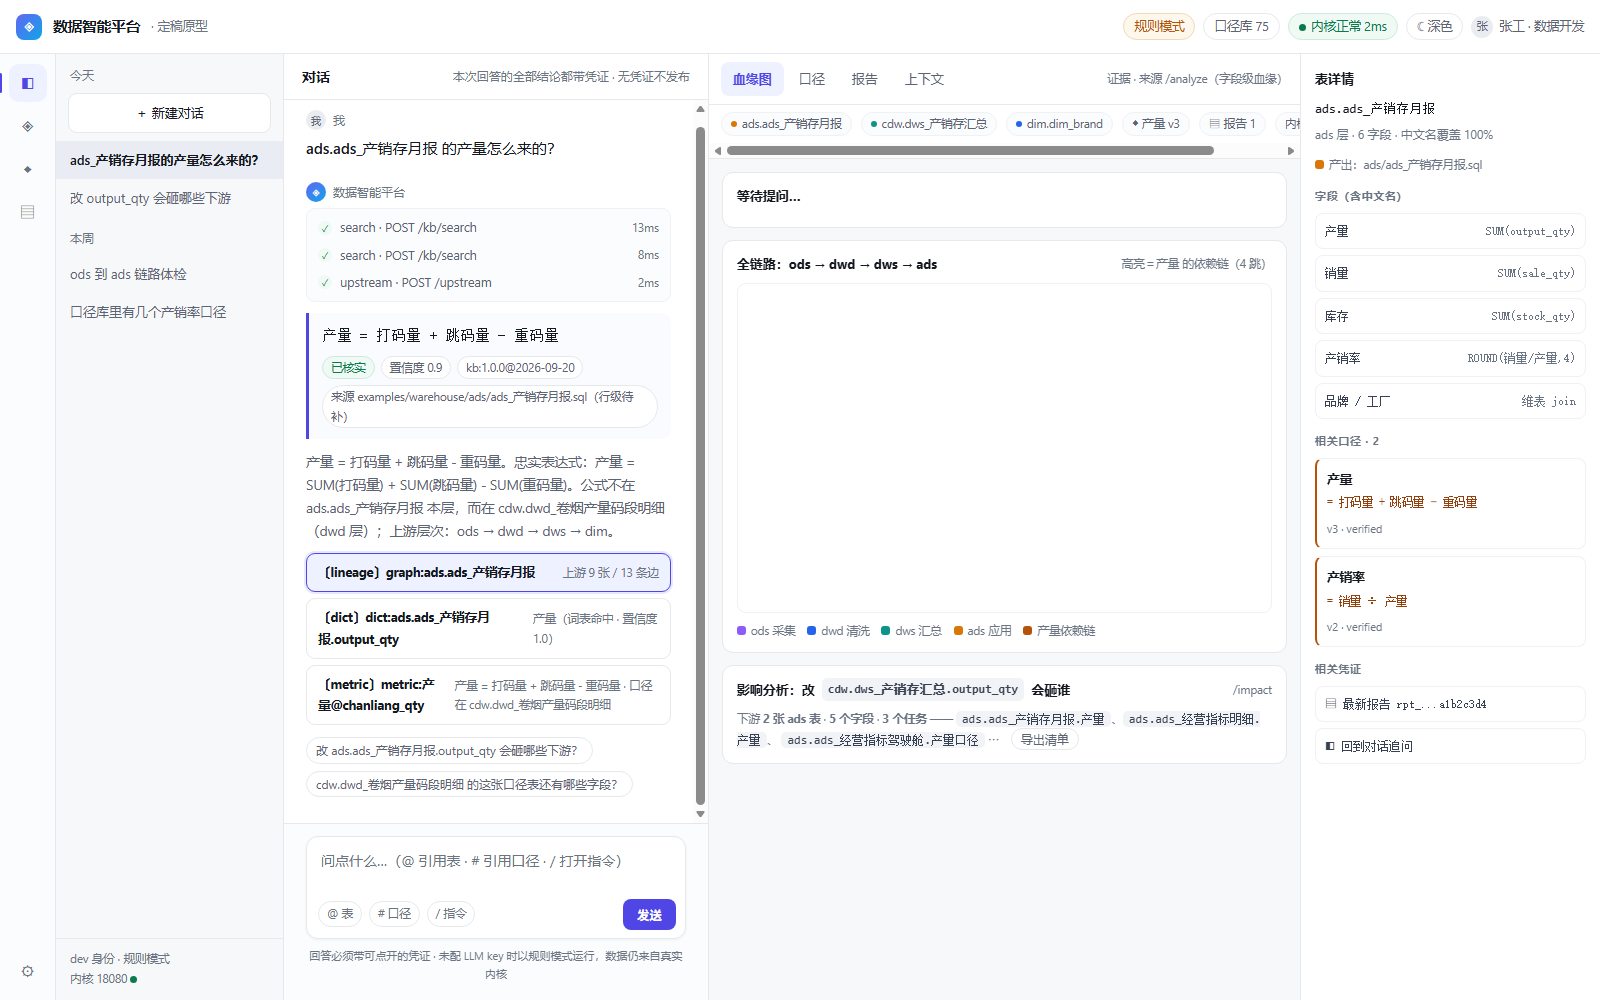
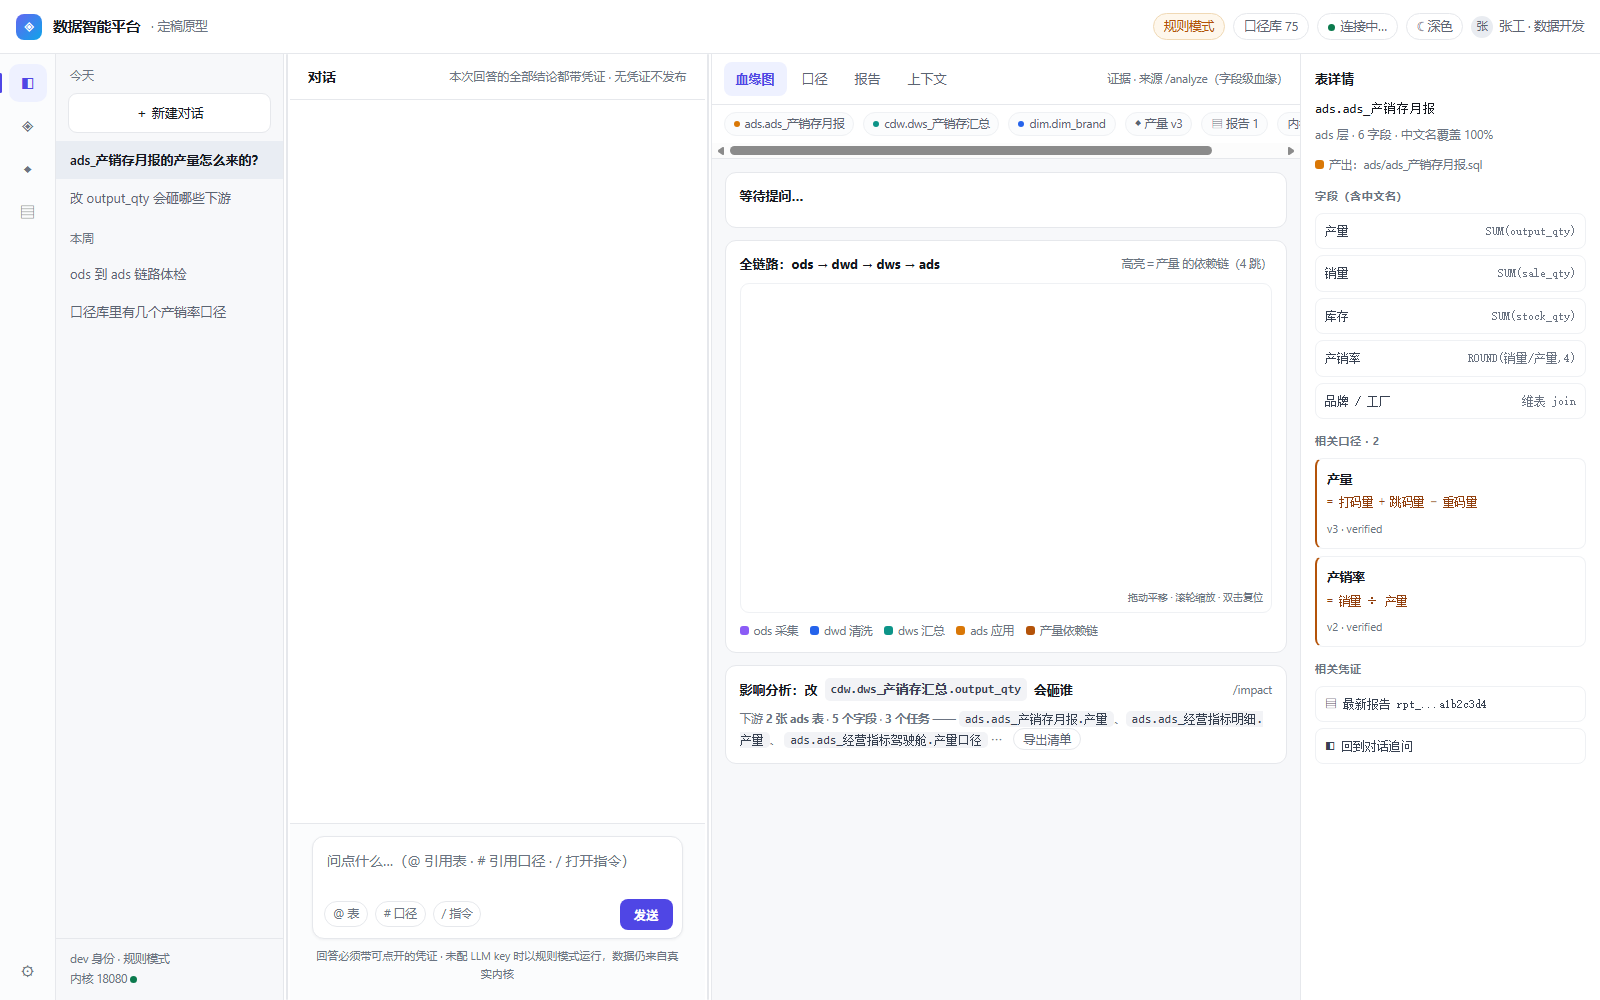
feat(web): B3 可见那一半 —— 会话列表读库 + 审计流水 + 留痕号
- 左侧会话列表改读 GET /api/sessions（刷新后历史真在，显示轮数与最近时间；点会话即切换并加载该会话留痕）
- 右侧「上下文」面板改为审计流水：每条显示留痕号、结论、status、内核调用次数与总耗时，点开看单条明细
- 结论卡新增「留痕 aud-N」徽标，点开即看这次回答的完整凭据（问题/时间/状态/置信度/版本/证据数/调用次数）
- DB 不可用时明确提示问答仍可用，只是不留痕，不静默失败

diff --git a/apps/portal-web/index.html b/apps/portal-web/index.html
@@ -700,7 +700,7 @@ function renderContext(a, question) {
     '<h5>本次提问</h5><div class="it">' + question + '</div>' +
     '<h5>引用与调用 · ' + rows.length + ' 条</h5>' +
     rows.map(r => '<div class="it">' + r + '</div>').join('') +
-    '<div class="meta">mode=' + a.mode + ' · 会话（P1 内存，W-112 落库）· 审计落库见 W-117</div>');
+    '<div class="meta">mode=' + a.mode + ' · 已落库（PostgreSQL）：会话 / 消息 / 审计 · 留痕号见结论卡</div>');
 }
 
 function renderPanel(a, question) {
@@ -709,8 +709,107 @@ function renderPanel(a, question) {
   renderGraph(a.result);
   renderReport(a.result);
   renderContext(a, question);
+  loadAudit();
   const which = v && v.type === 'formula' ? 'metric' : (tableOf(a.result) ? 'graph' : 'ctx');
   if (typeof pick === 'function') pick(which);
+}
+
+
+/* ================= B3：会话列表 / 审计流水 / 留痕号 ================= */
+let CURRENT_SESSION = SESSION;
+
+function fmtTime(iso) {
+  try { return new Date(iso).toLocaleString('zh-CN', {hour12:false}).slice(5); } catch (e) { return iso; }
+}
+
+/* 左侧会话列表：读 /api/sessions（刷新后历史真的在；DB 不可用时退回提示） */
+async function loadSessions() {
+  const box = document.getElementById('convs');
+  if (!box) return;
+  const list = box.querySelectorAll('.cv');
+  list.forEach(n => n.remove());
+  const ft = box.querySelector('.ft');
+  try {
+    const r = await fetch(API + '/api/sessions?limit=20');
+    const j = await r.json();
+    if (!j.success) throw new Error(j.error || 'DB 不可用');
+    if (!j.items.length) {
+      const empty = el('div','cv','（还没有历史会话）'); empty.style.color = 'var(--dim2)'; box.insertBefore(empty, ft);
+      return;
+    }
+    j.items.forEach((s, i) => {
+      const row = el('div','cv' + (s.id === CURRENT_SESSION ? ' on' : ''), (s.title || s.id).slice(0, 22));
+      row.title = s.id + ' · ' + s.turns + ' 轮 · 最近 ' + fmtTime(s.last_seen_at);
+      row.onclick = () => { CURRENT_SESSION = s.id; loadSessions(); loadAudit(); };
+      box.insertBefore(row, ft);
+      if (i === 0 && !document.querySelector('.cv.on')) row.classList.add('on');
+    });
+    const badge = box.querySelector('.ft');
+    if (badge) badge.innerHTML = '会话与审计已落库（PostgreSQL）<br>portal-api :18100 · 内核 <span class="dot"></span>';
+  } catch (e) {
+    const box2 = document.getElementById('convs');
+    const ft2 = box2.querySelector('.ft');
+    if (ft2) ft2.innerHTML = '会话存储不可用：' + String(e) + '<br>（问答仍可用，只是不留痕）';
+  }
+}
+
+/* 右侧「上下文」面板：本条回答的引用 + 本会话审计流水 */
+async function loadAudit() {
+  const card = document.getElementById('p-ctx');
+  if (!card) return;
+  card.innerHTML = '';
+  card.append(Object.assign(el('h4'), {textContent: '会话上下文 · 审计留痕'}));
+  const box = el('div');
+  box.append(el('div','meta','加载审计流水…'));
+  card.append(box);
+  try {
+    const r = await fetch(API + '/api/audit?session_id=' + encodeURIComponent(CURRENT_SESSION) + '&limit=20');
+    const j = await r.json();
+    if (!j.success) throw new Error(j.error || 'DB 不可用');
+    box.innerHTML = '';
+    box.append(Object.assign(el('h5'), {textContent: '会话 ' + CURRENT_SESSION + ' · 留痕 ' + j.items.length + ' 条'}));
+    j.items.forEach(it => {
+      const row = el('div','it');
+      row.innerHTML = '<span class="c c-' + (it.status === 'verified' ? 'ads' : 'dwd') + '"></span>' +
+        '#' + it.id + ' · ' + (it.value_display || '(无结论)') +
+        '<span style="margin-left:auto;color:var(--dim2)">' + it.status + ' · ' + it.kernel_calls + ' 次调用 · ' + it.total_ms + 'ms</span>';
+      row.title = it.question + '\n' + fmtTime(it.created_at) + ' · 置信度 ' + it.confidence + ' · 版本 ' + (it.version || '—');
+      row.onclick = () => showAuditDetail(it.id);
+      box.append(row);
+    });
+  } catch (e) {
+    box.innerHTML = '<div class="meta">审计不可用：' + String(e) + '（问答正常，但没留痕）</div>';
+  }
+}
+
+async function showAuditDetail(auditId) {
+  const card = document.getElementById('p-ctx');
+  card.innerHTML = '';
+  const h = el('h4');
+  h.append(document.createTextNode('留痕 #' + auditId + ' 明细 '));
+  const back = el('span','sp','← 返回流水'); back.style.cursor = 'pointer';
+  back.onclick = () => loadAudit();
+  h.append(back);
+  card.append(h);
+  const box = el('div'); box.append(el('div','meta','加载…')); card.append(box);
+  try {
+    const r = await fetch(API + '/api/audit?session_id=' + encodeURIComponent(CURRENT_SESSION) + '&limit=200');
+    const j = await r.json();
+    const it = (j.items || []).find(x => String(x.id) === String(auditId));
+    box.innerHTML = '';
+    box.append(Object.assign(el('div','fml'), {textContent: it.value_display || '(本次没有形成结论)'}));
+    box.append(Object.assign(el('dl','kv'), {innerHTML:
+      '<dt>问题</dt><dd>' + it.question + '</dd>' +
+      '<dt>时间</dt><dd>' + fmtTime(it.created_at) + '</dd>' +
+      '<dt>状态</dt><dd>' + it.status + '</dd>' +
+      '<dt>置信度</dt><dd>' + it.confidence + '</dd>' +
+      '<dt>版本</dt><dd>' + (it.version || '—') + '</dd>' +
+      '<dt>证据数</dt><dd>' + it.evidence_count + '</dd>' +
+      '<dt>内核调用</dt><dd>' + it.kernel_calls + ' 次 · 合计 ' + it.total_ms + 'ms</dd>'}));
+    box.append(Object.assign(el('div','meta'), {textContent:'这条留痕就是"平台拿什么回答的"凭据：问题、结论、状态、证据条数与调用次数都在，可在库里按 session 回查。'}));
+  } catch (e) {
+    box.innerHTML = '<div class="meta">读取失败：' + String(e) + '</div>';
+  }
 }
 
 const FORCE_STATIC = new URLSearchParams(location.search).has('static') || location.protocol === 'file:';
@@ -765,7 +864,14 @@ function renderAnswer(a, question) {
     concl.append(Object.assign(el('div','f'), {style:'font-size:13.5px;font-family:inherit',
       textContent: a.result.status === 'unresolved' ? '需要澄清 / 证据不足 —— 平台不会猜' : '本次没有形成结论'}));
   }
-  concl.append(statusBadges(a.result));
+  if (a.audit_id) {
+    const tag = el('span','b g', '留痕 ' + a.audit_id);
+    tag.style.cursor = 'pointer';
+    tag.onclick = (ev) => { ev.stopPropagation(); showAuditDetail(String(a.audit_id).replace('aud-','')); };
+    const bs = statusBadges(a.result); bs.append(tag); concl.append(bs);
+  } else {
+    concl.append(statusBadges(a.result));
+  }
   msg.append(concl);
   msg.append(Object.assign(el('div','', ), {style:'color:var(--dim);font-size:13.5px;margin:.5em 0 11px', textContent: a.text}));
 
@@ -788,6 +894,7 @@ function renderAnswer(a, question) {
   stream.scrollTop = stream.scrollHeight;
   setTimeout(() => { concl.onclick = () => pick(a.result.value && a.result.value.type==='formula' ? 'metric' : 'graph'); }, 0);
   renderPanel(a, question);
+  loadSessions();
 }
 
 function setStaticBadge(reason) {
@@ -838,6 +945,7 @@ document.addEventListener('DOMContentLoaded', () => {
   if (btn) btn.onclick = () => { ask(ta.value); ta.value = ''; };
   if (ta) ta.addEventListener('keydown', e => { if (e.key === 'Enter' && !e.shiftKey) { e.preventDefault(); ask(ta.value); ta.value=''; } });
   checkHealth();
+  loadSessions();
   if (FORCE_STATIC) { setStaticBadge('强制静态模式'); renderAnswer(JSON.parse(JSON.stringify(STATIC_DEMO)), 'ads.ads_产销存月报 的产量怎么来的？'); }
   else ask('ads.ads_产销存月报 的产量怎么来的？');   // 进页面就跑一次真实问答，便于演示与截图
 });
